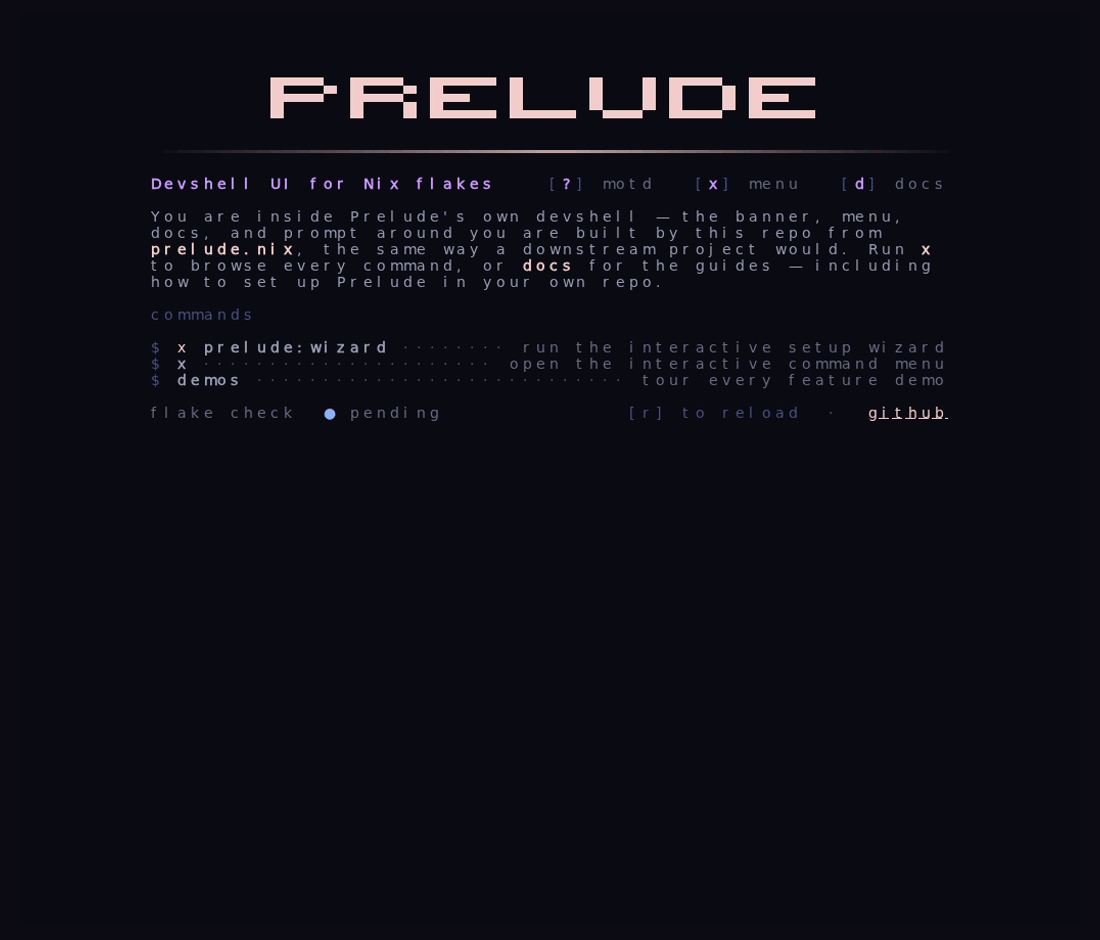
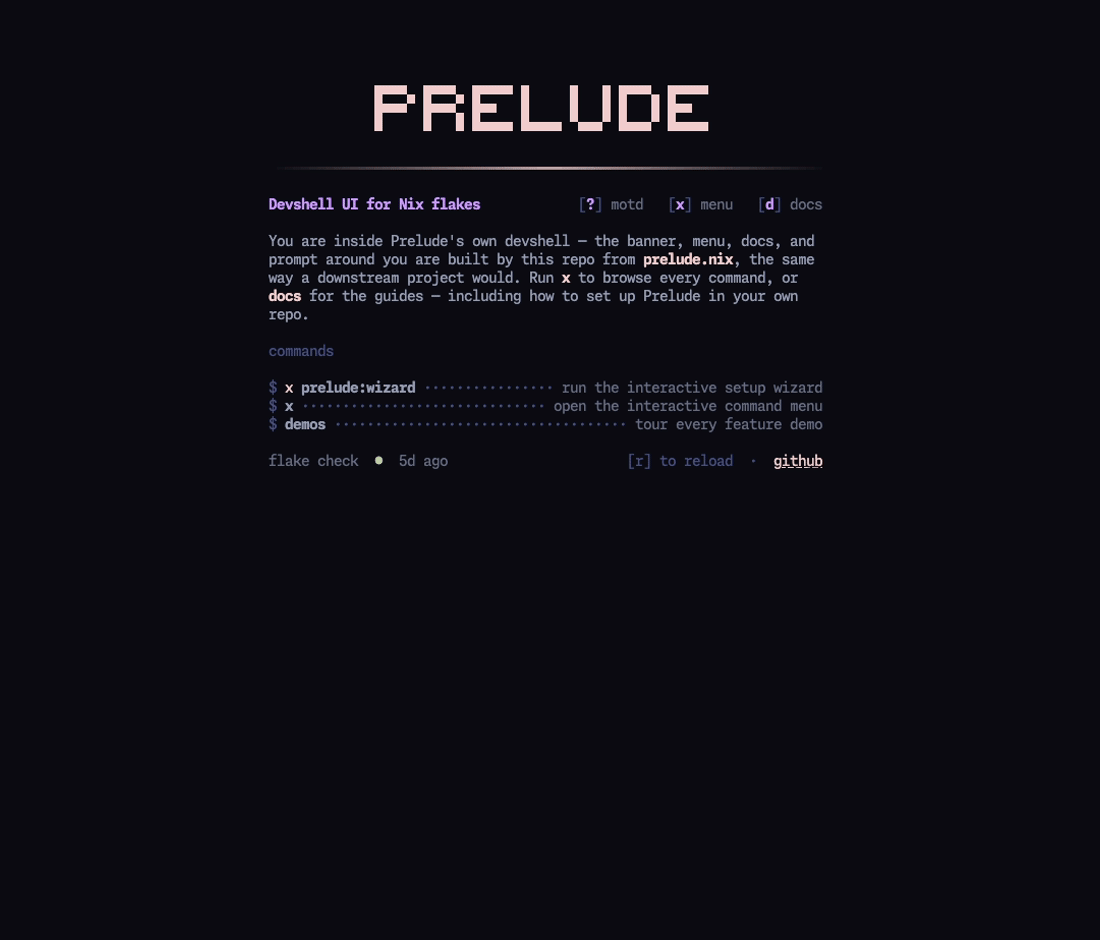
DARK-43: fix menu background gaps and gray demo recordings (#5)
* fix(menu): fill unused list height with framed background rows
* docs: refresh terminal recordings and select build in menu capture
* fix(docs): embed Prelude colors in the README recordin

diff --git a/src/internal/menu/listview.go b/src/internal/menu/listview.go
@@ -76,6 +76,11 @@ func (l *ListView) Sync(flat []Task, matches []int, sel int, expanded bool, heig
 	if expanded {
 		targetH = max(targetH, len(lines))
 	}
+	// Viewport height padding is unstyled. Fill short lists with panel rows so
+	// the body background and side rails continue all the way to the footer.
+	for len(lines) < targetH {
+		lines = append(lines, frame.Blank())
+	}
 	l.height = targetH
 	l.viewport.SetHeight(max(targetH, 1))
 	l.viewport.SetWidth(max(l.inner+2, 1))

diff --git a/README.md b/README.md
@@ -14,7 +14,6 @@ Prelude keeps docs next to where you run the project. `docs` explains this repo;
 </div>
 <br />
 
-
 ## Quickstart (Setup Wizard)
 
 The wizard writes `prelude.nix`, a sibling `title.txt`, and a project-root `.envrc` (`use flake` plus preflight):
@@ -113,6 +112,8 @@ x check
 ```
 
 User-visible docs changes: `x sync-docs` (and `x record-docs` if media is stale).
+
+Render the README tour with `agg docs/recording.cast docs/recording.gif`. Preserve the cast's `term.theme` when replacing the recording so its terminal colors match Prelude instead of the renderer's fallback palette.
 
 ## License
 
